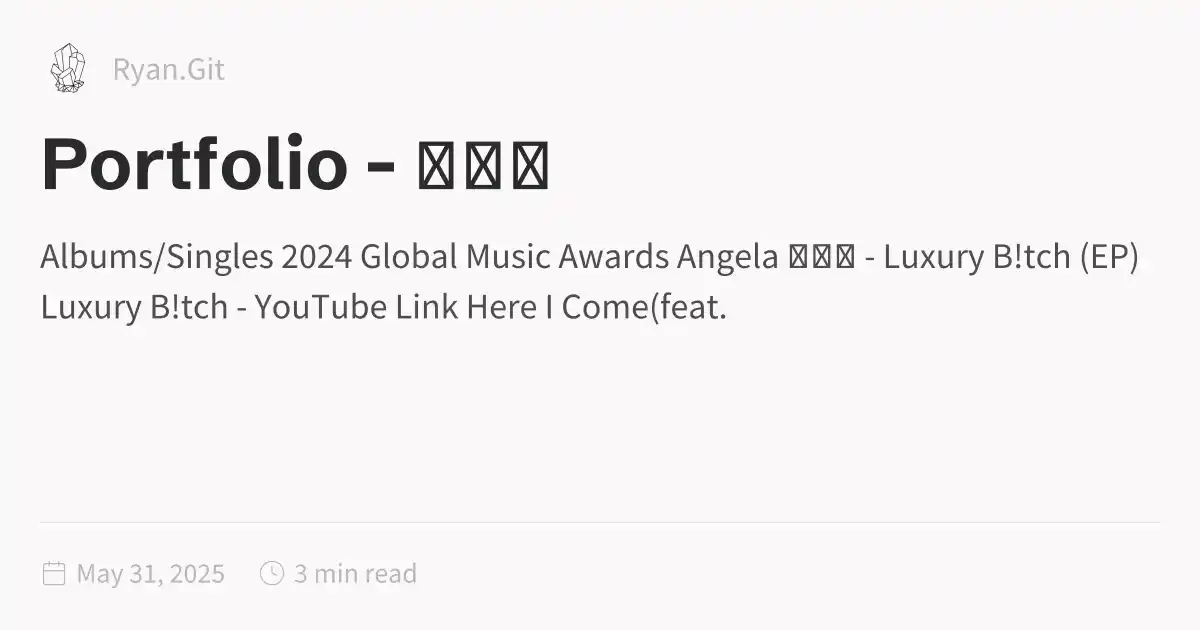
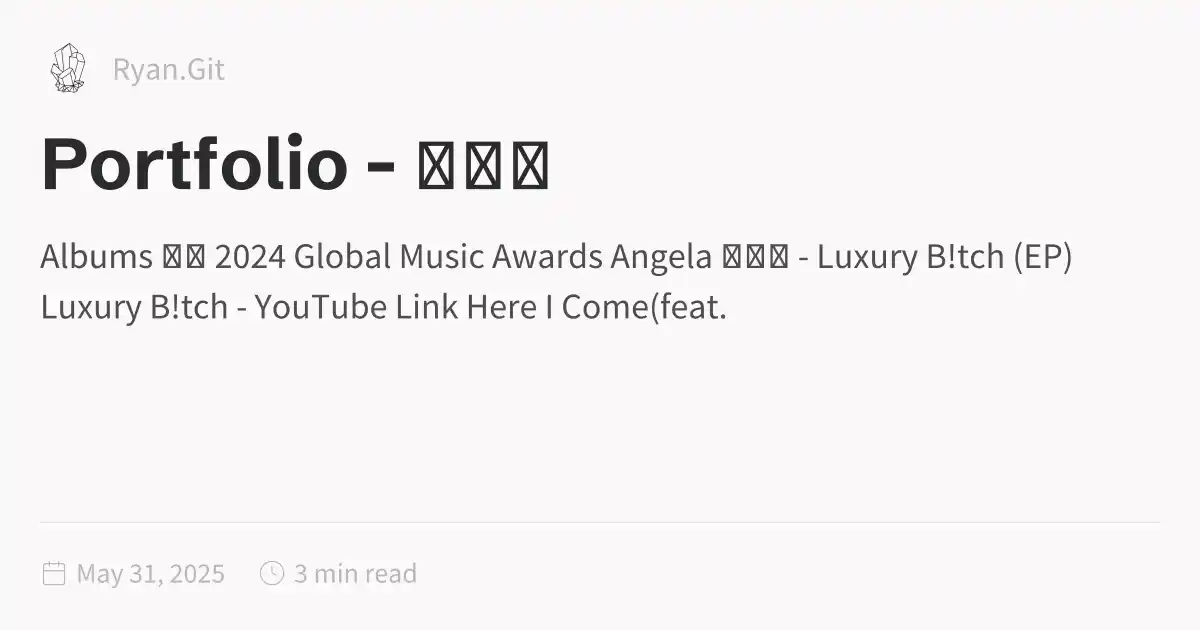
Deploy updated site

Changed region(s): [[0.1233, 0.3619, 0.9558, 0.4524]]

diff --git a/Portfolio---作品集.html b/Portfolio---作品集.html
@@ -1,5 +1,5 @@
 <!DOCTYPE html>
-<html lang="en"><head><title>Portfolio - 作品集</title><meta charset="utf-8"/><link rel="preconnect" href="https://fonts.googleapis.com"/><link rel="preconnect" href="https://fonts.gstatic.com"/><link rel="stylesheet" href="https://fonts.googleapis.com/css2?family=Schibsted Grotesk:wght@400;700&amp;family=Source Sans Pro:ital,wght@0,400;0,600;1,400;1,600&amp;family=IBM Plex Mono:wght@400;600&amp;display=swap"/><link rel="preconnect" href="https://cdnjs.cloudflare.com" crossorigin="anonymous"/><meta name="viewport" content="width=device-width, initial-scale=1.0"/><meta name="og:site_name" content="Ryan.Git"/><meta property="og:title" content="Portfolio - 作品集"/><meta property="og:type" content="website"/><meta name="twitter:card" content="summary_large_image"/><meta name="twitter:title" content="Portfolio - 作品集"/><meta name="twitter:description" content="Albums/Singles 2024 Global Music Awards Angela 曾妃攸 - Luxury B!tch (EP) Luxury B!tch - YouTube Link Here I Come(feat."/><meta property="og:description" content="Albums/Singles 2024 Global Music Awards Angela 曾妃攸 - Luxury B!tch (EP) Luxury B!tch - YouTube Link Here I Come(feat."/><meta property="og:image:alt" content="Albums/Singles 2024 Global Music Awards Angela 曾妃攸 - Luxury B!tch (EP) Luxury B!tch - YouTube Link Here I Come(feat."/><meta property="twitter:domain" content="Ryan.Git"/><meta property="og:url" content="https://ryan.git/Portfolio---作品集"/><meta property="twitter:url" content="https://ryan.git/Portfolio---作品集"/><link rel="icon" href="./static/icon.png"/><meta name="description" content="Albums/Singles 2024 Global Music Awards Angela 曾妃攸 - Luxury B!tch (EP) Luxury B!tch - YouTube Link Here I Come(feat."/><meta name="generator" content="Quartz"/><link href="./index.css" rel="stylesheet" type="text/css" spa-preserve/><style>.expand-button {
+<html lang="en"><head><title>Portfolio - 作品集</title><meta charset="utf-8"/><link rel="preconnect" href="https://fonts.googleapis.com"/><link rel="preconnect" href="https://fonts.gstatic.com"/><link rel="stylesheet" href="https://fonts.googleapis.com/css2?family=Schibsted Grotesk:wght@400;700&amp;family=Source Sans Pro:ital,wght@0,400;0,600;1,400;1,600&amp;family=IBM Plex Mono:wght@400;600&amp;display=swap"/><link rel="preconnect" href="https://cdnjs.cloudflare.com" crossorigin="anonymous"/><meta name="viewport" content="width=device-width, initial-scale=1.0"/><meta name="og:site_name" content="Ryan.Git"/><meta property="og:title" content="Portfolio - 作品集"/><meta property="og:type" content="website"/><meta name="twitter:card" content="summary_large_image"/><meta name="twitter:title" content="Portfolio - 作品集"/><meta name="twitter:description" content="Albums 專輯 2024 Global Music Awards Angela 曾妃攸 - Luxury B!tch (EP) Luxury B!tch - YouTube Link Here I Come(feat."/><meta property="og:description" content="Albums 專輯 2024 Global Music Awards Angela 曾妃攸 - Luxury B!tch (EP) Luxury B!tch - YouTube Link Here I Come(feat."/><meta property="og:image:alt" content="Albums 專輯 2024 Global Music Awards Angela 曾妃攸 - Luxury B!tch (EP) Luxury B!tch - YouTube Link Here I Come(feat."/><meta property="twitter:domain" content="Ryan.Git"/><meta property="og:url" content="https://ryan.git/Portfolio---作品集"/><meta property="twitter:url" content="https://ryan.git/Portfolio---作品集"/><link rel="icon" href="./static/icon.png"/><meta name="description" content="Albums 專輯 2024 Global Music Awards Angela 曾妃攸 - Luxury B!tch (EP) Luxury B!tch - YouTube Link Here I Come(feat."/><meta name="generator" content="Quartz"/><link href="./index.css" rel="stylesheet" type="text/css" spa-preserve/><style>.expand-button {
   position: absolute;
   display: flex;
   float: right;
@@ -116,8 +116,8 @@ pre:hover > .expand-button {
   padding: 0 12px;
   font-size: 14px;
 }
[1 lines of base64/hex data omitted]
-<h2 id="albumssingles">Albums/Singles<a role="anchor" aria-hidden="true" tabindex="-1" data-no-popover="true" href="#albumssingles" class="internal"><svg width="18" height="18" viewBox="0 0 24 24" fill="none" stroke="currentColor" stroke-width="2" stroke-linecap="round" stroke-linejoin="round"><path d="M10 13a5 5 0 0 0 7.54.54l3-3a5 5 0 0 0-7.07-7.07l-1.72 1.71"></path><path d="M14 11a5 5 0 0 0-7.54-.54l-3 3a5 5 0 0 0 7.07 7.07l1.71-1.71"></path></svg></a></h2>
[1 lines of base64/hex data omitted]
+<h2 id="albums-專輯">Albums 專輯<a role="anchor" aria-hidden="true" tabindex="-1" data-no-popover="true" href="#albums-專輯" class="internal"><svg width="18" height="18" viewBox="0 0 24 24" fill="none" stroke="currentColor" stroke-width="2" stroke-linecap="round" stroke-linejoin="round"><path d="M10 13a5 5 0 0 0 7.54.54l3-3a5 5 0 0 0-7.07-7.07l-1.72 1.71"></path><path d="M14 11a5 5 0 0 0-7.54-.54l-3 3a5 5 0 0 0 7.07 7.07l1.71-1.71"></path></svg></a></h2>
 <h4 id="2024-global-music-awards-angela-曾妃攸---luxury-btch-ep">2024 Global Music Awards<br/> Angela 曾妃攸 - Luxury B!tch (EP)<a role="anchor" aria-hidden="true" tabindex="-1" data-no-popover="true" href="#2024-global-music-awards-angela-曾妃攸---luxury-btch-ep" class="internal"><svg width="18" height="18" viewBox="0 0 24 24" fill="none" stroke="currentColor" stroke-width="2" stroke-linecap="round" stroke-linejoin="round"><path d="M10 13a5 5 0 0 0 7.54.54l3-3a5 5 0 0 0-7.07-7.07l-1.72 1.71"></path><path d="M14 11a5 5 0 0 0-7.54-.54l-3 3a5 5 0 0 0 7.07 7.07l1.71-1.71"></path></svg></a></h4>
 <p>Luxury B!tch - <a href="https://www.youtube.com/watch?v=59ubI0dUuvM" target="_blank" class="external">YouTube Link<svg aria-hidden="true" class="external-icon" style="max-width:0.8em;max-height:0.8em;" viewBox="0 0 512 512"><path d="M320 0H288V64h32 82.7L201.4 265.4 178.7 288 224 333.3l22.6-22.6L448 109.3V192v32h64V192 32 0H480 320zM32 32H0V64 480v32H32 456h32V480 352 320H424v32 96H64V96h96 32V32H160 32z"></path></svg></a><br/>
 Here I Come(feat. Raymond Anthony) - <a href="https://www.youtube.com/watch?v=g6Ts4djaQEA" target="_blank" class="external">YouTube Link<svg aria-hidden="true" class="external-icon" style="max-width:0.8em;max-height:0.8em;" viewBox="0 0 512 512"><path d="M320 0H288V64h32 82.7L201.4 265.4 178.7 288 224 333.3l22.6-22.6L448 109.3V192v32h64V192 32 0H480 320zM32 32H0V64 480v32H32 456h32V480 352 320H424v32 96H64V96h96 32V32H160 32z"></path></svg></a><br/>
@@ -127,11 +127,12 @@ Tan - <a href="https://www.youtube.com/watch?v=v9j_55vB6DI" target="_blank" clas
 Tell Me Why(feat. R.M.A.) - <a href="https://www.youtube.com/watch?v=CiPVJVV-7aY" target="_blank" class="external">YouTube Link<svg aria-hidden="true" class="external-icon" style="max-width:0.8em;max-height:0.8em;" viewBox="0 0 512 512"><path d="M320 0H288V64h32 82.7L201.4 265.4 178.7 288 224 333.3l22.6-22.6L448 109.3V192v32h64V192 32 0H480 320zM32 32H0V64 480v32H32 456h32V480 352 320H424v32 96H64V96h96 32V32H160 32z"></path></svg></a><br/>
 既然你 - <a href="https://www.youtube.com/watch?v=IIPEhA9Uc_w" target="_blank" class="external">YouTube Link<svg aria-hidden="true" class="external-icon" style="max-width:0.8em;max-height:0.8em;" viewBox="0 0 512 512"><path d="M320 0H288V64h32 82.7L201.4 265.4 178.7 288 224 333.3l22.6-22.6L448 109.3V192v32h64V192 32 0H480 320zM32 32H0V64 480v32H32 456h32V480 352 320H424v32 96H64V96h96 32V32H160 32z"></path></svg></a><br/>
 如有雷同 - <a href="https://youtu.be/Rkqp633eWIQ?si=ivJKoEsIESxsuEy-" target="_blank" class="external">YouTube Link<svg aria-hidden="true" class="external-icon" style="max-width:0.8em;max-height:0.8em;" viewBox="0 0 512 512"><path d="M320 0H288V64h32 82.7L201.4 265.4 178.7 288 224 333.3l22.6-22.6L448 109.3V192v32h64V192 32 0H480 320zM32 32H0V64 480v32H32 456h32V480 352 320H424v32 96H64V96h96 32V32H160 32z"></path></svg></a></p>
-<p>Keanna Taiyh - 雙魚游泳(feat. 雞二兄弟) - <a href="https://www.youtube.com/watch?v=2NqBmzbP6j8" target="_blank" class="external">YouTube Link<svg aria-hidden="true" class="external-icon" style="max-width:0.8em;max-height:0.8em;" viewBox="0 0 512 512"><path d="M320 0H288V64h32 82.7L201.4 265.4 178.7 288 224 333.3l22.6-22.6L448 109.3V192v32h64V192 32 0H480 320zM32 32H0V64 480v32H32 456h32V480 352 320H424v32 96H64V96h96 32V32H160 32z"></path></svg></a><br/>
-Keanna Taiyh - 點點頭 Nod(feat. 雞二兄弟) - <a href="https://www.youtube.com/watch?v=Ae68V3IG_iU" target="_blank" class="external">YouTube Link<svg aria-hidden="true" class="external-icon" style="max-width:0.8em;max-height:0.8em;" viewBox="0 0 512 512"><path d="M320 0H288V64h32 82.7L201.4 265.4 178.7 288 224 333.3l22.6-22.6L448 109.3V192v32h64V192 32 0H480 320zM32 32H0V64 480v32H32 456h32V480 352 320H424v32 96H64V96h96 32V32H160 32z"></path></svg></a><br/>
-竜生RS - 相愛的我們 - <a href="https://www.youtube.com/watch?v=JS7l7anIpuA" target="_blank" class="external">YouTube Link<svg aria-hidden="true" class="external-icon" style="max-width:0.8em;max-height:0.8em;" viewBox="0 0 512 512"><path d="M320 0H288V64h32 82.7L201.4 265.4 178.7 288 224 333.3l22.6-22.6L448 109.3V192v32h64V192 32 0H480 320zM32 32H0V64 480v32H32 456h32V480 352 320H424v32 96H64V96h96 32V32H160 32z"></path></svg></a><br/>
+<h2 id="singles-單曲">Singles 單曲<a role="anchor" aria-hidden="true" tabindex="-1" data-no-popover="true" href="#singles-單曲" class="internal"><svg width="18" height="18" viewBox="0 0 24 24" fill="none" stroke="currentColor" stroke-width="2" stroke-linecap="round" stroke-linejoin="round"><path d="M10 13a5 5 0 0 0 7.54.54l3-3a5 5 0 0 0-7.07-7.07l-1.72 1.71"></path><path d="M14 11a5 5 0 0 0-7.54-.54l-3 3a5 5 0 0 0 7.07 7.07l1.71-1.71"></path></svg></a></h2>
+<p>竜生RS - 相愛的我們 - <a href="https://www.youtube.com/watch?v=JS7l7anIpuA" target="_blank" class="external">YouTube Link<svg aria-hidden="true" class="external-icon" style="max-width:0.8em;max-height:0.8em;" viewBox="0 0 512 512"><path d="M320 0H288V64h32 82.7L201.4 265.4 178.7 288 224 333.3l22.6-22.6L448 109.3V192v32h64V192 32 0H480 320zM32 32H0V64 480v32H32 456h32V480 352 320H424v32 96H64V96h96 32V32H160 32z"></path></svg></a><br/>
 竜生RS - 功成名就 - <a href="https://www.youtube.com/watch?v=pdf4xotSz1k" target="_blank" class="external">YouTube Link<svg aria-hidden="true" class="external-icon" style="max-width:0.8em;max-height:0.8em;" viewBox="0 0 512 512"><path d="M320 0H288V64h32 82.7L201.4 265.4 178.7 288 224 333.3l22.6-22.6L448 109.3V192v32h64V192 32 0H480 320zM32 32H0V64 480v32H32 456h32V480 352 320H424v32 96H64V96h96 32V32H160 32z"></path></svg></a><br/>
 竜生RS - Dont Leave Me (feat. 77) - <a href="https://youtu.be/68ttu5HIamY?si=M7ZJF9wPAh9mJMjw" target="_blank" class="external">YouTube Link<svg aria-hidden="true" class="external-icon" style="max-width:0.8em;max-height:0.8em;" viewBox="0 0 512 512"><path d="M320 0H288V64h32 82.7L201.4 265.4 178.7 288 224 333.3l22.6-22.6L448 109.3V192v32h64V192 32 0H480 320zM32 32H0V64 480v32H32 456h32V480 352 320H424v32 96H64V96h96 32V32H160 32z"></path></svg></a>
+Keanna Taiyh - 雙魚游泳(feat. 雞二兄弟) - <a href="https://www.youtube.com/watch?v=2NqBmzbP6j8" target="_blank" class="external">YouTube Link<svg aria-hidden="true" class="external-icon" style="max-width:0.8em;max-height:0.8em;" viewBox="0 0 512 512"><path d="M320 0H288V64h32 82.7L201.4 265.4 178.7 288 224 333.3l22.6-22.6L448 109.3V192v32h64V192 32 0H480 320zM32 32H0V64 480v32H32 456h32V480 352 320H424v32 96H64V96h96 32V32H160 32z"></path></svg></a><br/>
+Keanna Taiyh - 點點頭 Nod(feat. 雞二兄弟) - <a href="https://www.youtube.com/watch?v=Ae68V3IG_iU" target="_blank" class="external">YouTube Link<svg aria-hidden="true" class="external-icon" style="max-width:0.8em;max-height:0.8em;" viewBox="0 0 512 512"><path d="M320 0H288V64h32 82.7L201.4 265.4 178.7 288 224 333.3l22.6-22.6L448 109.3V192v32h64V192 32 0H480 320zM32 32H0V64 480v32H32 456h32V480 352 320H424v32 96H64V96h96 32V32H160 32z"></path></svg></a><br/>
 兆群 Shane - Go On - <a href="https://www.youtube.com/watch?v=AwHBpdckUNw" target="_blank" class="external">YouTube Link<svg aria-hidden="true" class="external-icon" style="max-width:0.8em;max-height:0.8em;" viewBox="0 0 512 512"><path d="M320 0H288V64h32 82.7L201.4 265.4 178.7 288 224 333.3l22.6-22.6L448 109.3V192v32h64V192 32 0H480 320zM32 32H0V64 480v32H32 456h32V480 352 320H424v32 96H64V96h96 32V32H160 32z"></path></svg></a><br/>
 嫚凌 - 玩美 (feat.楊蒨時&amp; Keanna Taiyh) - <a href="https://www.youtube.com/watch?v=s9_NSVuF-iI&amp;list=OLAK5uy_kB8LNKiWpt2b6KYYxXVc1BRDwoBLWJWQg" target="_blank" class="external">YouTube Link<svg aria-hidden="true" class="external-icon" style="max-width:0.8em;max-height:0.8em;" viewBox="0 0 512 512"><path d="M320 0H288V64h32 82.7L201.4 265.4 178.7 288 224 333.3l22.6-22.6L448 109.3V192v32h64V192 32 0H480 320zM32 32H0V64 480v32H32 456h32V480 352 320H424v32 96H64V96h96 32V32H160 32z"></path></svg></a><br/>
 嫚凌 - 慢夢境 - <a href="https://www.youtube.com/watch?v=8cQEsZrRZxs&amp;list=OLAK5uy_luylGj4MvMyQK1UNk5PhfbxCtjVeusBCA" target="_blank" class="external">YouTube Link<svg aria-hidden="true" class="external-icon" style="max-width:0.8em;max-height:0.8em;" viewBox="0 0 512 512"><path d="M320 0H288V64h32 82.7L201.4 265.4 178.7 288 224 333.3l22.6-22.6L448 109.3V192v32h64V192 32 0H480 320zM32 32H0V64 480v32H32 456h32V480 352 320H424v32 96H64V96h96 32V32H160 32z"></path></svg></a><br/>
@@ -265,8 +266,7 @@ Your browser does not support the audio element.
 Your browser does not support the audio element.
 </audio></p>
 <h3 id="樂利錄音室服務項目"><a href="./Lovely-Road-Studio---樂利錄音室" class="internal alias" data-slug="Lovely-Road-Studio---樂利錄音室">樂利錄音室服務項目</a><a role="anchor" aria-hidden="true" tabindex="-1" data-no-popover="true" href="#樂利錄音室服務項目" class="internal"><svg width="18" height="18" viewBox="0 0 24 24" fill="none" stroke="currentColor" stroke-width="2" stroke-linecap="round" stroke-linejoin="round"><path d="M10 13a5 5 0 0 0 7.54.54l3-3a5 5 0 0 0-7.07-7.07l-1.72 1.71"></path><path d="M14 11a5 5 0 0 0-7.54-.54l-3 3a5 5 0 0 0 7.07 7.07l1.71-1.71"></path></svg></a></h3>
-</div>
-![[contact 1.png]]</article><hr/><div class="page-footer"></div></div><div class="right sidebar"><div class="graph"><h3>Graph View</h3><div class="graph-outer"><div class="graph-container" data-cfg="{&quot;drag&quot;:true,&quot;zoom&quot;:true,&quot;depth&quot;:1,&quot;scale&quot;:1.1,&quot;repelForce&quot;:0.5,&quot;centerForce&quot;:0.3,&quot;linkDistance&quot;:30,&quot;fontSize&quot;:0.6,&quot;opacityScale&quot;:1,&quot;showTags&quot;:true,&quot;removeTags&quot;:[],&quot;focusOnHover&quot;:false,&quot;enableRadial&quot;:false}"></div><button class="global-graph-icon" aria-label="Global Graph"><svg version="1.1" xmlns="http://www.w3.org/2000/svg" xmlns:xlink="http://www.w3.org/1999/xlink" x="0px" y="0px" viewBox="0 0 55 55" fill="currentColor" xml:space="preserve"><path d="M49,0c-3.309,0-6,2.691-6,6c0,1.035,0.263,2.009,0.726,2.86l-9.829,9.829C32.542,17.634,30.846,17,29,17
+</div></article><hr/><div class="page-footer"></div></div><div class="right sidebar"><div class="graph"><h3>Graph View</h3><div class="graph-outer"><div class="graph-container" data-cfg="{&quot;drag&quot;:true,&quot;zoom&quot;:true,&quot;depth&quot;:1,&quot;scale&quot;:1.1,&quot;repelForce&quot;:0.5,&quot;centerForce&quot;:0.3,&quot;linkDistance&quot;:30,&quot;fontSize&quot;:0.6,&quot;opacityScale&quot;:1,&quot;showTags&quot;:true,&quot;removeTags&quot;:[],&quot;focusOnHover&quot;:false,&quot;enableRadial&quot;:false}"></div><button class="global-graph-icon" aria-label="Global Graph"><svg version="1.1" xmlns="http://www.w3.org/2000/svg" xmlns:xlink="http://www.w3.org/1999/xlink" x="0px" y="0px" viewBox="0 0 55 55" fill="currentColor" xml:space="preserve"><path d="M49,0c-3.309,0-6,2.691-6,6c0,1.035,0.263,2.009,0.726,2.86l-9.829,9.829C32.542,17.634,30.846,17,29,17
                 s-3.542,0.634-4.898,1.688l-7.669-7.669C16.785,10.424,17,9.74,17,9c0-2.206-1.794-4-4-4S9,6.794,9,9s1.794,4,4,4
                 c0.74,0,1.424-0.215,2.019-0.567l7.669,7.669C21.634,21.458,21,23.154,21,25s0.634,3.542,1.688,4.897L10.024,42.562
                 C8.958,41.595,7.549,41,6,41c-3.309,0-6,2.691-6,6s2.691,6,6,6s6-2.691,6-6c0-1.035-0.263-2.009-0.726-2.86l12.829-12.829
@@ -276,6 +276,6 @@ Your browser does not support the audio element.
                 C46.042,11.405,47.451,12,49,12c3.309,0,6-2.691,6-6S52.309,0,49,0z M11,9c0-1.103,0.897-2,2-2s2,0.897,2,2s-0.897,2-2,2
                 S11,10.103,11,9z M6,51c-2.206,0-4-1.794-4-4s1.794-4,4-4s4,1.794,4,4S8.206,51,6,51z M33,49c0,2.206-1.794,4-4,4s-4-1.794-4-4
                 s1.794-4,4-4S33,46.794,33,49z M29,31c-3.309,0-6-2.691-6-6s2.691-6,6-6s6,2.691,6,6S32.309,31,29,31z M47,41c0,1.103-0.897,2-2,2
-                s-2-0.897-2-2s0.897-2,2-2S47,39.897,47,41z M49,10c-2.206,0-4-1.794-4-4s1.794-4,4-4s4,1.794,4,4S51.206,10,49,10z"></path></svg></button></div><div class="global-graph-outer"><div class="global-graph-container" data-cfg="{&quot;drag&quot;:true,&quot;zoom&quot;:true,&quot;depth&quot;:-1,&quot;scale&quot;:0.9,&quot;repelForce&quot;:0.5,&quot;centerForce&quot;:0.2,&quot;linkDistance&quot;:30,&quot;fontSize&quot;:0.6,&quot;opacityScale&quot;:1,&quot;showTags&quot;:true,&quot;removeTags&quot;:[],&quot;focusOnHover&quot;:true,&quot;enableRadial&quot;:true}"></div></div></div><div class="toc desktop-only"><button type="button" class="toc-header" aria-controls="toc-content" aria-expanded="true"><h3>Table of Contents</h3><svg xmlns="http://www.w3.org/2000/svg" width="24" height="24" viewBox="0 0 24 24" fill="none" stroke="currentColor" stroke-width="2" stroke-linecap="round" stroke-linejoin="round" class="fold"><polyline points="6 9 12 15 18 9"></polyline></svg></button><ul class="toc-content overflow" id="list-1"><li class="depth-0"><a href="#albumssingles" data-for="albumssingles">Albums/Singles</a></li><li class="depth-0"><a href="#films-and-games-soundtracks-影視遊戲配樂" data-for="films-and-games-soundtracks-影視遊戲配樂">Films and Games Soundtracks 影視遊戲配樂</a></li><li class="depth-1"><a href="#樂利錄音室服務項目" data-for="樂利錄音室服務項目">樂利錄音室服務項目</a></li><li class="overflow-end"></li></ul></div><div class="backlinks"><h3>Backlinks</h3><ul id="list-2" class="overflow"><li><a href="./Lovely-Road-Studio---樂利錄音室" class="internal">Lovely Road Studio - 樂利錄音室</a></li><li><a href="./Ryan-Marshall-Anthony-(莊來恩)---Bio" class="internal">Ryan Marshall Anthony (莊來恩) - Bio</a></li><li class="overflow-end"></li></ul></div></div><footer class><p>Created with <a href="https://quartz.jzhao.xyz/">Quartz v4.5.0</a> © 2025</p><ul><li><a href="https://github.com/jackyzha0/quartz">GitHub</a></li><li><a href="https://discord.gg/cRFFHYye7t">Discord Community</a></li></ul></footer></div></div></body><script type="application/javascript">function n(){let t=this.parentElement;t.classList.toggle("is-collapsed");let e=t.getElementsByClassName("callout-content")[0];if(!e)return;let l=t.classList.contains("is-collapsed");e.style.gridTemplateRows=l?"0fr":"1fr"}function c(){let t=document.getElementsByClassName("callout is-collapsible");for(let e of t){let l=e.getElementsByClassName("callout-title")[0],s=e.getElementsByClassName("callout-content")[0];if(!l||!s)continue;l.addEventListener("click",n),window.addCleanup(()=>l.removeEventListener("click",n));let o=e.classList.contains("is-collapsed");s.style.gridTemplateRows=o?"0fr":"1fr"}}document.addEventListener("nav",c);
+                s-2-0.897-2-2s0.897-2,2-2S47,39.897,47,41z M49,10c-2.206,0-4-1.794-4-4s1.794-4,4-4s4,1.794,4,4S51.206,10,49,10z"></path></svg></button></div><div class="global-graph-outer"><div class="global-graph-container" data-cfg="{&quot;drag&quot;:true,&quot;zoom&quot;:true,&quot;depth&quot;:-1,&quot;scale&quot;:0.9,&quot;repelForce&quot;:0.5,&quot;centerForce&quot;:0.2,&quot;linkDistance&quot;:30,&quot;fontSize&quot;:0.6,&quot;opacityScale&quot;:1,&quot;showTags&quot;:true,&quot;removeTags&quot;:[],&quot;focusOnHover&quot;:true,&quot;enableRadial&quot;:true}"></div></div></div><div class="toc desktop-only"><button type="button" class="toc-header" aria-controls="toc-content" aria-expanded="true"><h3>Table of Contents</h3><svg xmlns="http://www.w3.org/2000/svg" width="24" height="24" viewBox="0 0 24 24" fill="none" stroke="currentColor" stroke-width="2" stroke-linecap="round" stroke-linejoin="round" class="fold"><polyline points="6 9 12 15 18 9"></polyline></svg></button><ul class="toc-content overflow" id="list-1"><li class="depth-0"><a href="#albums-專輯" data-for="albums-專輯">Albums 專輯</a></li><li class="depth-0"><a href="#singles-單曲" data-for="singles-單曲">Singles 單曲</a></li><li class="depth-0"><a href="#films-and-games-soundtracks-影視遊戲配樂" data-for="films-and-games-soundtracks-影視遊戲配樂">Films and Games Soundtracks 影視遊戲配樂</a></li><li class="depth-1"><a href="#樂利錄音室服務項目" data-for="樂利錄音室服務項目">樂利錄音室服務項目</a></li><li class="overflow-end"></li></ul></div><div class="backlinks"><h3>Backlinks</h3><ul id="list-2" class="overflow"><li><a href="./Lovely-Road-Studio---樂利錄音室" class="internal">Lovely Road Studio - 樂利錄音室</a></li><li><a href="./Ryan-Marshall-Anthony-(莊來恩)---Bio" class="internal">Ryan Marshall Anthony (莊來恩) - Bio</a></li><li class="overflow-end"></li></ul></div></div><footer class><p>Created with <a href="https://quartz.jzhao.xyz/">Quartz v4.5.0</a> © 2025</p><ul><li><a href="https://github.com/jackyzha0/quartz">GitHub</a></li><li><a href="https://discord.gg/cRFFHYye7t">Discord Community</a></li></ul></footer></div></div></body><script type="application/javascript">function n(){let t=this.parentElement;t.classList.toggle("is-collapsed");let e=t.getElementsByClassName("callout-content")[0];if(!e)return;let l=t.classList.contains("is-collapsed");e.style.gridTemplateRows=l?"0fr":"1fr"}function c(){let t=document.getElementsByClassName("callout is-collapsible");for(let e of t){let l=e.getElementsByClassName("callout-title")[0],s=e.getElementsByClassName("callout-content")[0];if(!l||!s)continue;l.addEventListener("click",n),window.addCleanup(()=>l.removeEventListener("click",n));let o=e.classList.contains("is-collapsed");s.style.gridTemplateRows=o?"0fr":"1fr"}}document.addEventListener("nav",c);
 </script><script type="module">function f(i,e){if(!i)return;function r(o){o.target===this&&(o.preventDefault(),o.stopPropagation(),e())}function t(o){o.key.startsWith("Esc")&&(o.preventDefault(),e())}i?.addEventListener("click",r),window.addCleanup(()=>i?.removeEventListener("click",r)),document.addEventListener("keydown",t),window.addCleanup(()=>document.removeEventListener("keydown",t))}function y(i){for(;i.firstChild;)i.removeChild(i.firstChild)}var h=class{constructor(e,r){this.container=e;this.content=r;this.setupEventListeners(),this.setupNavigationControls(),this.resetTransform()}isDragging=!1;startPan={x:0,y:0};currentPan={x:0,y:0};scale=1;MIN_SCALE=.5;MAX_SCALE=3;cleanups=[];setupEventListeners(){let e=this.onMouseDown.bind(this),r=this.onMouseMove.bind(this),t=this.onMouseUp.bind(this),o=this.resetTransform.bind(this);this.container.addEventListener("mousedown",e),document.addEventListener("mousemove",r),document.addEventListener("mouseup",t),window.addEventListener("resize",o),this.cleanups.push(()=>this.container.removeEventListener("mousedown",e),()=>document.removeEventListener("mousemove",r),()=>document.removeEventListener("mouseup",t),()=>window.removeEventListener("resize",o))}cleanup(){for(let e of this.cleanups)e()}setupNavigationControls(){let e=document.createElement("div");e.className="mermaid-controls";let r=this.createButton("+",()=>this.zoom(.1)),t=this.createButton("-",()=>this.zoom(-.1)),o=this.createButton("Reset",()=>this.resetTransform());e.appendChild(t),e.appendChild(o),e.appendChild(r),this.container.appendChild(e)}createButton(e,r){let t=document.createElement("button");return t.textContent=e,t.className="mermaid-control-button",t.addEventListener("click",r),window.addCleanup(()=>t.removeEventListener("click",r)),t}onMouseDown(e){e.button===0&&(this.isDragging=!0,this.startPan={x:e.clientX-this.currentPan.x,y:e.clientY-this.currentPan.y},this.container.style.cursor="grabbing")}onMouseMove(e){this.isDragging&&(e.preventDefault(),this.currentPan={x:e.clientX-this.startPan.x,y:e.clientY-this.startPan.y},this.updateTransform())}onMouseUp(){this.isDragging=!1,this.container.style.cursor="grab"}zoom(e){let r=Math.min(Math.max(this.scale+e,this.MIN_SCALE),this.MAX_SCALE),t=this.content.getBoundingClientRect(),o=t.width/2,n=t.height/2,c=r-this.scale;this.currentPan.x-=o*c,this.currentPan.y-=n*c,this.scale=r,this.updateTransform()}updateTransform(){this.content.style.transform=`translate(${this.currentPan.x}px, ${this.currentPan.y}px) scale(${this.scale})`}resetTransform(){this.scale=1;let e=this.content.querySelector("svg");this.currentPan={x:e.getBoundingClientRect().width/2,y:e.getBoundingClientRect().height/2},this.updateTransform()}},C=["--secondary","--tertiary","--gray","--light","--lightgray","--highlight","--dark","--darkgray","--codeFont"],E;document.addEventListener("nav",async()=>{let e=document.querySelector(".center").querySelectorAll("code.mermaid");if(e.length===0)return;E||=await import("https://cdnjs.cloudflare.com/ajax/libs/mermaid/11.4.0/mermaid.esm.min.mjs");let r=E.default,t=new WeakMap;for(let n of e)t.set(n,n.innerText);async function o(){for(let s of e){s.removeAttribute("data-processed");let a=t.get(s);a&&(s.innerHTML=a)}let n=C.reduce((s,a)=>(s[a]=window.getComputedStyle(document.documentElement).getPropertyValue(a),s),{}),c=document.documentElement.getAttribute("saved-theme")==="dark";r.initialize({startOnLoad:!1,securityLevel:"loose",theme:c?"dark":"base",themeVariables:{fontFamily:n["--codeFont"],primaryColor:n["--light"],primaryTextColor:n["--darkgray"],primaryBorderColor:n["--tertiary"],lineColor:n["--darkgray"],secondaryColor:n["--secondary"],tertiaryColor:n["--tertiary"],clusterBkg:n["--light"],edgeLabelBackground:n["--highlight"]}}),await r.run({nodes:e})}await o(),document.addEventListener("themechange",o),window.addCleanup(()=>document.removeEventListener("themechange",o));for(let n=0;n<e.length;n++){let v=function(){let g=l.querySelector("#mermaid-space"),m=l.querySelector(".mermaid-content");if(!m)return;y(m);let w=c.querySelector("svg").cloneNode(!0);m.appendChild(w),l.classList.add("active"),g.style.cursor="grab",u=new h(g,m)},M=function(){l.classList.remove("active"),u?.cleanup(),u=null},c=e[n],s=c.parentElement,a=s.querySelector(".clipboard-button"),d=s.querySelector(".expand-button"),p=window.getComputedStyle(a),L=a.offsetWidth+parseFloat(p.marginLeft||"0")+parseFloat(p.marginRight||"0");d.style.right=`calc(${L}px + 0.3rem)`,s.prepend(d);let l=s.querySelector("#mermaid-container");if(!l)return;let u=null;d.addEventListener("click",v),f(l,M),window.addCleanup(()=>{u?.cleanup(),d.removeEventListener("click",v)})}});
 </script><script src="https://cdn.jsdelivr.net/npm/katex@0.16.11/dist/contrib/copy-tex.min.js" type="application/javascript"></script><script src="./postscript.js" type="module"></script></html>
